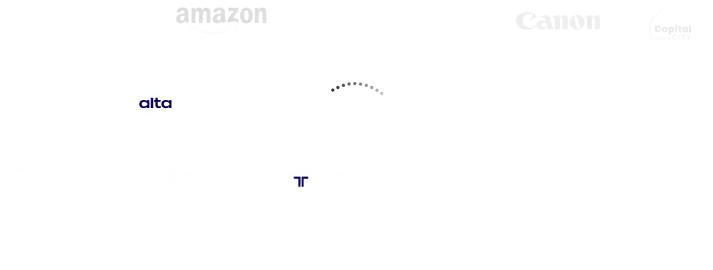
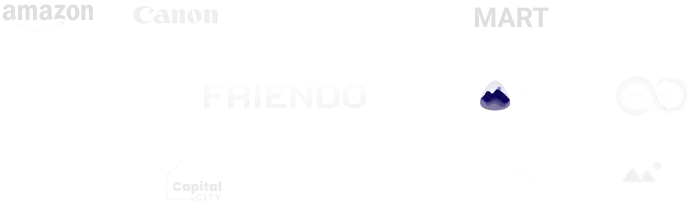
adding partners, fixing mobile portfolio, changing textes

diff --git a/public/index.html b/public/index.html
@@ -15,7 +15,7 @@
 	<meta name="author" content="UnfinitX" />
 	<meta property="og:title" content="UnfinitX IT Company" />
 	<meta property="og:description"
-		content="Unfinitx, established in 2019, is a prominent provider of IT consulting and software development services. The company primarily focuses its operations in the United States, CIS countries, and Europe." />
+		content="Unfinitx, established in 2022, is a prominent provider of IT consulting and software development services." />
 	<meta property="og:image" content="https://unfinitx.com/logo.svg" />
 	<meta property="og:url" content="https://unfinitx.com" />
 
@@ -23,7 +23,7 @@
 	<meta property="twitter:url" content="https://unfinitx.com">
 	<meta property="twitter:title" content="Unfinitx | We know the way to success">
 	<meta property="twitter:description"
-		content="Unfinitx, established in 2019, is a prominent provider of IT consulting and software development services. The company primarily focuses its operations in the United States, CIS countries, and Europe.">
+		content="Unfinitx, established in 2022, is a prominent provider of IT consulting and software development services.">
 	<meta property="twitter:image" content="https://unfinitx.com/logo.svg">
 
 

diff --git a/src/styles/_portfolio.scss b/src/styles/_portfolio.scss
@@ -132,6 +132,7 @@
             }
             @media screen and (orientation: portrait) {
                 grid-template-columns: repeat(2, 1fr);
+                grid-auto-flow: unset;
                 grid-template-rows: unset;
                 gap: 0.94vh;
             }
